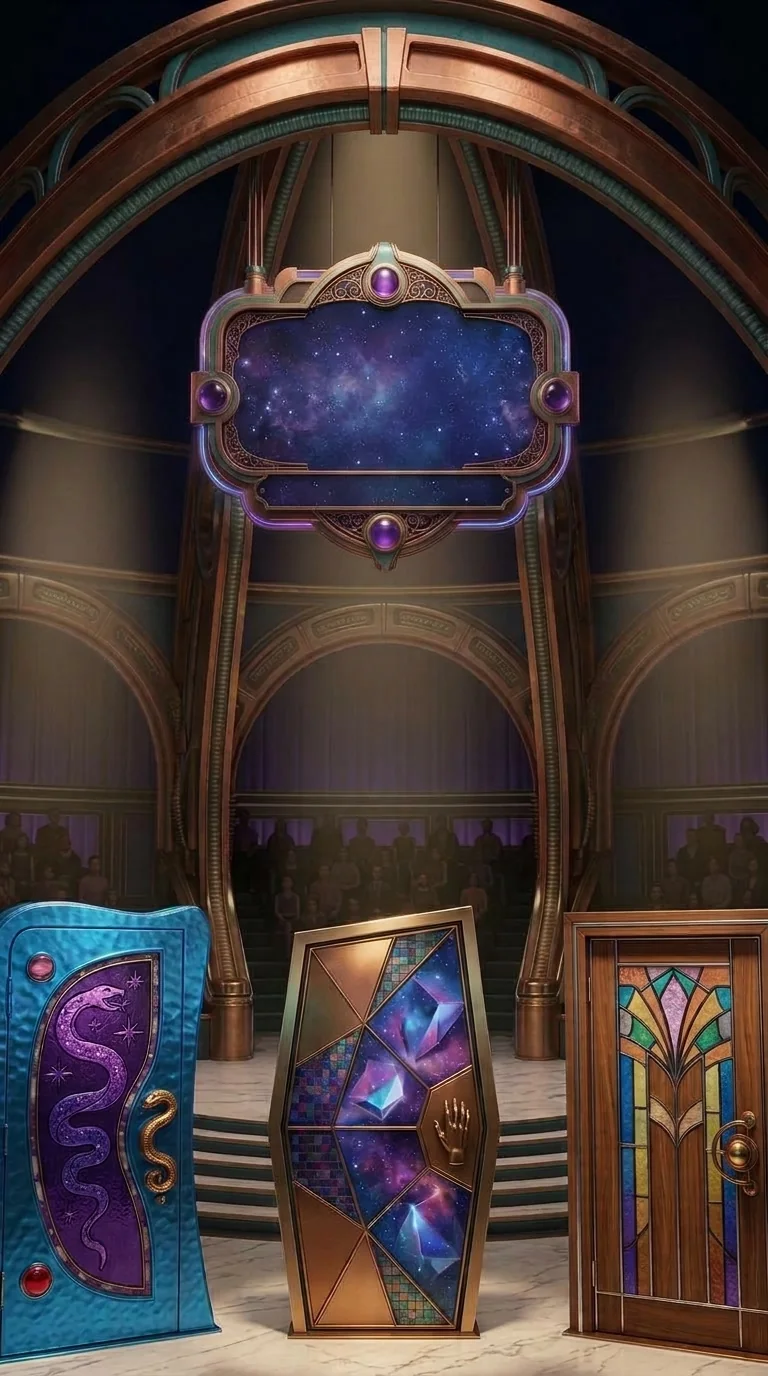
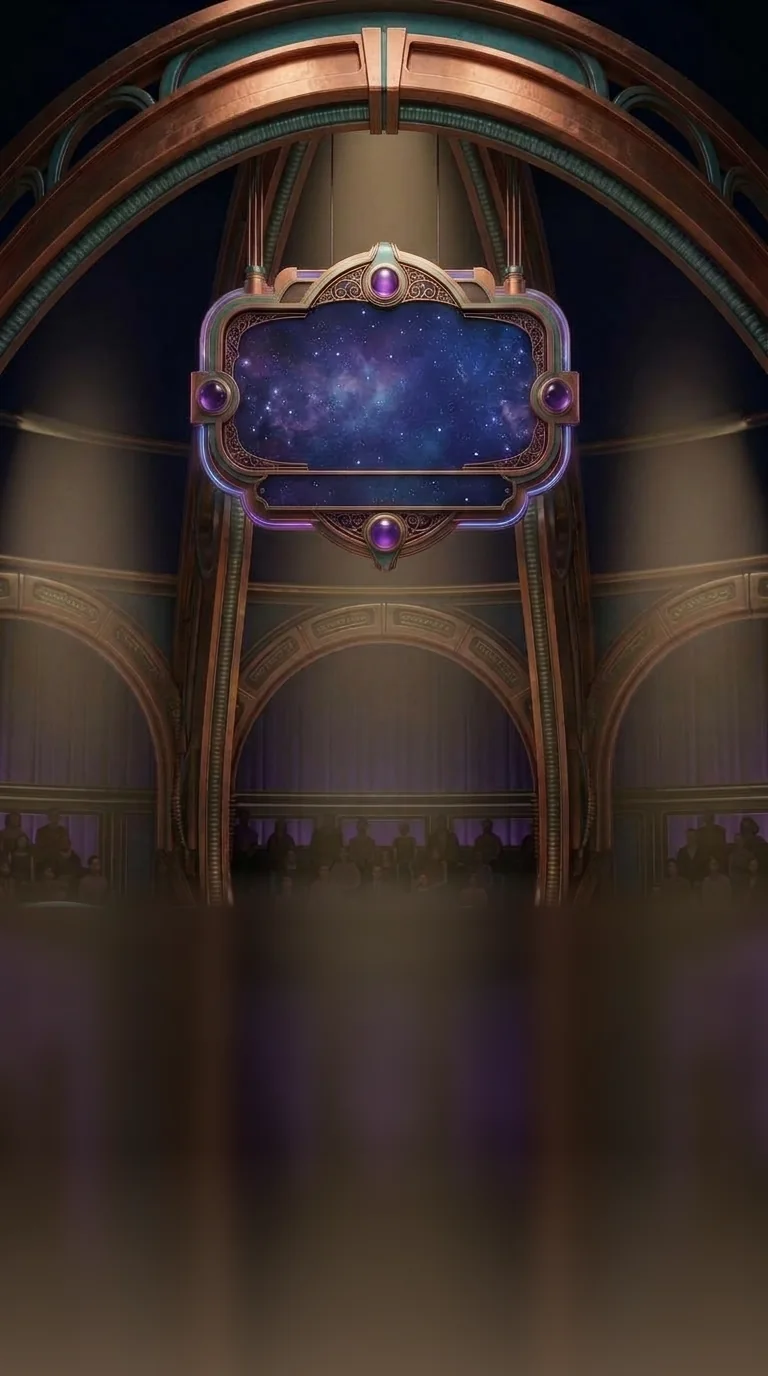
Mystery Doors redo: the stage picture (data/doors/stage.webp, its baked small doors painted out, brightened) behind THREE big live doors side by side at one height - blue, copper (the elongated hexagon, with a thin gold bevel in CSS) and wood - each 115-125 x 197 px at 360-390 wide and a real tap ta

Changed region(s): [[0.0, 0.625, 1.0, 1.0]]

diff --git a/lib/machine.css b/lib/machine.css
@@ -147,57 +147,8 @@
 :root .mc-ww .solve-section-label, :root .mc-ww #solveKeyboard{ display:none !important; }
 :root .mc-ww #solveKeyboard[data-shown]{ display:flex !important; }
 
-/* ===== Mystery Door (doors): the doors are the four pods, each number in its ring, the round buttons tap the doors too ===== */
-:root.mc-on-doors #eventOverlay.mc-backed{ position:fixed !important; inset:0 !important; padding:0 !important; margin:0 !important; animation:none !important; }
-:root.mc-active.mc-on-doors #board{ transform:none !important; animation:none !important; z-index:9 !important; }
-:root .mc-doors > :is(#eventSky, .bb-marquee, .bb-timeline, .riddle-ufo, #coinRays, #eventSubtitle){ display:none !important; }
-:root .mc-doors #eventPrompt{ position:fixed; left:var(--mc-prompt-x); top:var(--mc-prompt-y); width:var(--mc-prompt-w); height:calc(var(--mc-prompt-h) - 8px); margin:0; padding:0 6px; box-sizing:border-box;
-  display:flex; align-items:center; justify-content:center; text-align:center; overflow:hidden; background:none !important; border:0 !important; box-shadow:none !important;
-  font:400 13px/1.15 'FS Righteous', sans-serif !important; color:#f3e9ff !important; text-shadow:0 1px 2px rgba(0,0,0,0.9) !important; }
-:root .mc-doors #eventPrompt::before, :root .mc-doors #eventPrompt::after{ display:none !important; }
-:root .mc-doors #eventTimerBar{ position:fixed; left:calc(var(--mc-prompt-x) + 8px); top:calc(var(--mc-prompt-y) + var(--mc-prompt-h) - 6px); width:calc(var(--mc-prompt-w) - 16px); height:4px; margin:0; border-radius:2px; background:rgba(0,0,0,0.5); }
-:root .mc-doors #eventGrid{ position:static !important; display:block !important; }
-:root .mc-doors #eventGrid .bb-vs{ display:none !important; }
-:root .mc-doors .event-tile{ position:fixed !important; margin:0 !important; padding:0 !important; box-sizing:border-box; display:block !important; border-radius:40px !important; overflow:visible !important;
-  background:none !important; background-color:transparent !important; border:0 !important; box-shadow:none !important; clip-path:none !important; cursor:pointer; transition:opacity 260ms ease, transform 120ms ease-out; }
-:root .mc-doors .event-tile::before, :root .mc-doors .event-tile::after{ display:none !important; }
-:root .mc-doors .event-tile:nth-child(1){ left:var(--mc-pod1-x); top:var(--mc-pod1-y); width:var(--mc-pod1-w); height:var(--mc-pod1-h); }
-:root .mc-doors .event-tile:nth-child(2){ left:var(--mc-pod2-x); top:var(--mc-pod2-y); width:var(--mc-pod2-w); height:var(--mc-pod2-h); }
-:root .mc-doors .event-tile:nth-child(3){ left:var(--mc-pod3-x); top:var(--mc-pod3-y); width:var(--mc-pod3-w); height:var(--mc-pod3-h); }
-:root .mc-doors .event-tile:nth-child(4){ left:var(--mc-pod4-x); top:var(--mc-pod4-y); width:var(--mc-pod4-w); height:var(--mc-pod4-h); }
-:root .mc-doors .event-tile:active{ transform:scale(0.97); }
-/* the door's number in its ring (the ring sits above its pod) */
-:root .mc-doors .event-tile .pu-door{ position:absolute !important; left:calc(var(--mc-ring1-x) - var(--mc-pod1-x)) !important; top:calc(var(--mc-ring1-y) - var(--mc-pod1-y)) !important; width:var(--mc-ring1-w) !important; height:var(--mc-ring1-h) !important;
-  margin:0 !important; transform:none !important; display:flex !important; align-items:center; justify-content:center; background:none !important; border:0 !important; box-shadow:none !important;
-  font:400 clamp(24px, 7.4vw, 32px)/1 'FS Righteous', sans-serif !important; color:#fff !important; text-shadow:0 0 8px rgba(160,240,255,0.9), 0 2px 0 rgba(0,0,0,0.6) !important; }
-:root .mc-doors .event-tile:nth-child(2) .pu-door{ left:calc(var(--mc-ring2-x) - var(--mc-pod2-x)) !important; }
-:root .mc-doors .event-tile:nth-child(3) .pu-door{ left:calc(var(--mc-ring3-x) - var(--mc-pod3-x)) !important; }
-:root .mc-doors .event-tile:nth-child(4) .pu-door{ left:calc(var(--mc-ring4-x) - var(--mc-pod4-x)) !important; }
-/* what's behind the door: a small chip at the foot of its pod (icon and name) */
-:root .mc-doors .event-tile .pu-prize{ position:absolute !important; left:50% !important; bottom:4% !important; top:auto !important; width:118% !important; height:auto !important; margin:0 !important; transform:translateX(-50%) !important;
-  display:flex !important; flex-direction:column; align-items:center; gap:1px; padding:3px 2px !important; border-radius:10px !important; box-shadow:0 2px 6px rgba(0,0,0,0.5) !important; opacity:0.95; }
-:root .mc-doors .event-tile .pu-prize .pu-icon{ font-size:18px !important; line-height:1 !important; margin:0 !important; }
-:root .mc-doors .event-tile .pu-prize .pu-label{ font:400 9.5px/1.05 'FS Righteous', sans-serif !important; color:#fff !important; text-shadow:0 1px 1px rgba(0,0,0,0.8) !important; text-align:center; white-space:normal; }
-/* the pick: a white flare on the chosen pod (it lights up through lightRegion); the others dim */
-:root .mc-doors .event-tile.picked-wait, :root .mc-doors .event-tile.open:not(.other){ animation:mcDoorFlare 700ms ease-out 1 !important; }
-@keyframes mcDoorFlare{ 0%{ background-color:rgba(255,255,255,0); } 25%{ background-color:rgba(255,255,255,0.55); } 100%{ background-color:rgba(255,255,255,0); } }
-:root .mc-doors .event-tile.picked-wait, :root .mc-doors .event-tile.open:not(.other){ background-image:none !important; }
-:root .mc-doors .event-tile.other{ opacity:0.32 !important; }
-:root.lite .mc-doors .event-tile.picked-wait, :root.lite .mc-doors .event-tile.open:not(.other){ animation:none !important; background-color:rgba(255,255,255,0.25) !important; }
-/* the four round buttons: real buttons over the picture's buttons, a squash when pressed */
-.mc-door-btns{ display:none; }
-:root .mc-doors .mc-door-btns{ display:block; }
-:root .mc-doors .mc-door-btn{ position:fixed; width:var(--mc-btn1-w); height:var(--mc-btn1-h); top:var(--mc-btn1-y); margin:0; padding:0; border:0; border-radius:50%; background:transparent; cursor:pointer; transition:transform 110ms ease-out; -webkit-tap-highlight-color:transparent; }
-:root .mc-doors .mc-door-btn.b1{ left:var(--mc-btn1-x); } :root .mc-doors .mc-door-btn.b2{ left:var(--mc-btn2-x); } :root .mc-doors .mc-door-btn.b3{ left:var(--mc-btn3-x); } :root .mc-doors .mc-door-btn.b4{ left:var(--mc-btn4-x); }
-:root .mc-doors .mc-door-btn:active, :root .mc-doors .mc-door-btn.press{ transform:scale(0.86, 0.8); background:radial-gradient(closest-side, rgba(255,255,255,0.45), rgba(255,255,255,0)); }
-:root.mc-active.mc-on-doors .app > header{ position:relative; z-index:9; }
 /* (the stage's own shot steps aside while a machine is up: the machine is the whole screen) */
 :root.mc-active #stage{ display:none !important; }
-:root .mc-doors .event-tile .pu-door::before, :root .mc-doors .event-tile .pu-door::after{ display:none !important; }
-:root .mc-doors .event-tile .pu-prize{ bottom:10% !important; }
-/* the chosen pod: a white flare over it while it opens */
-:root .mc-doors .event-tile.picked-wait, :root .mc-doors .event-tile.open:not(.other){ box-shadow:0 0 0 2px rgba(255,255,255,0.85), 0 0 26px 8px rgba(255,255,255,0.55) !important; }
-@media (max-width:370px){ :root .mc-doors #eventPrompt{ font-size:11.5px !important; } }
 
 /* ===== Lucky Lights (lucky): the game's wheel over the picture's, STOP on the big pink button, BANK / SPIN AGAIN on the strip ===== */
 :root .mc-lucky .ll-inner{ position:static !important; max-width:none !important; }
@@ -329,12 +280,6 @@
 :root .mc-orbit .pk-status{ top:calc(var(--mc-status-y) - 3px); flex-wrap:nowrap; }
 :root .mc-orbit .mc-orbit-patch{ background:linear-gradient(180deg, rgba(40,34,44,0) 0%, rgba(40,34,44,0.92) 30%, rgba(30,26,34,0.92) 70%, rgba(40,34,44,0) 100%); }
 
-/* Mystery Door fixes (Oct 25): the prompt sits on the control strip (a dark plate over the coloured squares), not on the pods; the
-   bonus-game names stay hidden until a door is picked, then only the chosen one shows */
-:root .mc-doors #eventPrompt{ background:rgba(12,6,28,0.82) !important; border-radius:10px !important; box-shadow:0 0 0 1.5px rgba(255,214,90,0.55) !important; font-size:11.5px !important; padding:0 8px !important; }
-:root .mc-doors #eventTimerBar{ top:calc(var(--mc-prompt-y) + var(--mc-prompt-h) - 7px); left:calc(var(--mc-prompt-x) + 10px); width:calc(var(--mc-prompt-w) - 20px); height:3px; }
-:root .mc-doors .event-tile .pu-prize{ opacity:0 !important; transition:opacity 200ms ease; pointer-events:none; }
-:root .mc-doors .event-tile.picked-wait .pu-prize, :root .mc-doors .event-tile.open:not(.other) .pu-prize{ opacity:0.98 !important; }
 
 /* Orbit Drop: headroom for the UFO - the board sits a little lower and shorter so the UFO (which hovers above the board) clears the
    instruction line and the status row, which stay above the star field */
@@ -390,7 +335,68 @@
 :root .mc-zap .zw-found{ left:var(--mc-found-x); top:var(--mc-found-y); width:var(--mc-found-w); height:var(--mc-found-h); }
 :root .mc-zap .mg-rule{ font-size:10px !important; }
 
-/* Item 3 (Oct 25): the Zap Words, Lucky Lights and Mystery Door machines rest in their lit picture (the dim one only for the first 0.35 s);
-   Orbit Drop has no lit picture, so its dim one gets a static brightness lift. Both are still pictures: no animation, no per-frame cost */
 .mc.bright .mc-clean{ filter:brightness(1.45) saturate(1.3) contrast(1.05); }
 .mc.lit .mc-lit{ transition-duration:350ms; }
+
+
+/* ===== Mystery Doors (Oct 25 redo): the stage behind three big live doors; the blank sign carries the live title ===== */
+.mc.bright .mc-clean{ filter:brightness(1.3) saturate(1.2); }
+:root.mc-on-doors #eventOverlay.mc-backed{ position:fixed !important; inset:0 !important; padding:0 !important; margin:0 !important; animation:none !important; }
+:root.mc-active.mc-on-doors #board{ transform:none !important; animation:none !important; z-index:9 !important; }
+:root.mc-active.mc-on-doors .app > header{ position:relative; z-index:9; }
+:root .mc-doors > :is(#eventSky, .bb-marquee, .bb-timeline, .riddle-ufo, #coinRays, #eventSubtitle){ display:none !important; }
+/* the live title on the sign: MYSTERY DOORS, and ROUND n - PICK A DOOR under it */
+.md-title{ display:none; }
+:root .mc-doors .md-title{ display:flex; position:fixed; left:var(--mc-sign-x); top:var(--mc-sign-y); width:var(--mc-sign-w); height:var(--mc-sign-h); flex-direction:column; align-items:center; justify-content:center; gap:5px; text-align:center; pointer-events:none; z-index:2; }
+:root .mc-doors .md-title b{ font:400 clamp(22px, 6.6vw, 28px)/1 'FS Righteous', sans-serif; letter-spacing:0.04em; color:#fff6dc; text-shadow:0 2px 0 rgba(60,20,90,0.9), 0 0 14px rgba(255,214,120,0.65); white-space:nowrap; }
+:root .mc-doors .md-title small{ font:400 clamp(10px, 3vw, 12.5px)/1 'FS Righteous', sans-serif; letter-spacing:0.12em; color:#ffe6a8; text-shadow:0 1px 2px rgba(0,0,30,0.95); white-space:nowrap; }
+/* the doors: three, side by side, one height, as big as the width allows */
+:root .mc-doors #eventGrid{ position:static !important; display:block !important; }
+:root .mc-doors #eventGrid .bb-vs, :root .mc-doors .event-tile:nth-child(n+4){ display:none !important; }
+:root .mc-doors{ --md-h:min(calc((100vw - 28px) / 1.66), calc(var(--mc-row-h) * 0.9)); }
+:root .mc-doors .event-tile{ position:fixed !important; top:calc(var(--mc-row-y) + (var(--mc-row-h) - var(--md-h)) * 0.5); height:var(--md-h); margin:0 !important; padding:0 !important; box-sizing:border-box; display:block !important;
+  background:none !important; background-color:transparent !important; border:0 !important; box-shadow:none !important; clip-path:none !important; border-radius:0 !important; overflow:visible !important; cursor:pointer; perspective:900px; -webkit-tap-highlight-color:transparent;
+  transition:opacity 260ms ease, transform 120ms ease-out; }
+:root .mc-doors .event-tile::before, :root .mc-doors .event-tile::after{ display:none !important; }
+:root .mc-doors .event-tile:nth-child(1){ width:calc(var(--md-h) * 0.577); left:calc(50vw - var(--md-h) * 0.8275 - 4px); }
+:root .mc-doors .event-tile:nth-child(2){ width:calc(var(--md-h) * 0.553); left:calc(50vw - var(--md-h) * 0.2505); }
+:root .mc-doors .event-tile:nth-child(3){ width:calc(var(--md-h) * 0.525); left:calc(50vw + var(--md-h) * 0.3025 + 4px); }
+:root .mc-doors .event-tile:active{ transform:scale(0.97); }
+/* the door picture; its hinge is on the left edge */
+:root .mc-doors .md-img{ position:absolute; inset:0; width:100%; height:100%; display:block; object-fit:contain; transform-origin:0 50%; transition:transform 600ms cubic-bezier(.5,0,.3,1), opacity 300ms ease; pointer-events:none; backface-visibility:hidden; filter:none; }
+:root .mc-doors .event-tile[data-door="copper"]::after{ display:block !important; content:''; position:absolute; inset:-2px; z-index:-1; pointer-events:none; background:linear-gradient(160deg, #fff0b0, #d9a23a 45%, #7a4a10);
+  clip-path:polygon(20% 0, 80% 0, 100% 24%, 88% 100%, 12% 100%, 0 24%); }   /* the thin gold bevel round the hexagon */
+/* behind the door: a CSS space scene - purple, teal and gold glow, stars twinkling in opacity, a slow swirl in transform */
+:root .mc-doors .md-space{ position:absolute; inset:2% 4%; z-index:-1; overflow:hidden; border-radius:10px; opacity:0; transition:opacity 200ms ease;
+  background:radial-gradient(60% 50% at 30% 30%, rgba(150,70,255,0.95), rgba(150,70,255,0) 70%), radial-gradient(55% 45% at 72% 70%, rgba(40,210,200,0.9), rgba(40,210,200,0) 70%), radial-gradient(70% 60% at 50% 55%, rgba(255,200,80,0.7), rgba(255,200,80,0) 65%), #130a30; }
+:root .mc-doors .md-space i{ position:absolute; inset:-30%; background-image:radial-gradient(circle, #fff 0 1.2px, transparent 1.8px), radial-gradient(circle, #ffe9a8 0 1px, transparent 1.6px), radial-gradient(circle, #bfe9ff 0 1.4px, transparent 2px); background-size:34px 41px, 53px 47px, 71px 63px; background-position:0 0, 11px 17px, 23px 5px; animation:mdTwinkle 1.7s ease-in-out infinite alternate; }
+:root .mc-doors .md-space i:nth-child(2){ background-size:47px 39px, 61px 57px, 37px 43px; animation-duration:2.3s; animation-delay:-0.8s; }
+:root .mc-doors .md-space i:nth-child(3){ inset:-40%; opacity:0.5; background:conic-gradient(from 0deg, rgba(255,255,255,0.18), rgba(255,255,255,0) 20%, rgba(255,214,120,0.2) 45%, rgba(255,255,255,0) 65%, rgba(120,255,240,0.18) 85%, rgba(255,255,255,0.18)); animation:mdSwirl 9s linear infinite; }
+@keyframes mdTwinkle{ from{ opacity:0.35; } to{ opacity:1; } }
+@keyframes mdSwirl{ to{ transform:rotate(360deg); } }
+/* the pick: the other two dim; the picked door swings open (rotateY about 0.6 s) on the space; its label shows */
+:root .mc-doors.md-picked .event-tile:not(.picked-wait):not(.open){ opacity:0.3; }
+:root .mc-doors .event-tile.picked-wait .md-img, :root .mc-doors .event-tile.open:not(.other) .md-img{ transform:rotateY(-105deg); }
+:root .mc-doors .event-tile.picked-wait .md-space, :root .mc-doors .event-tile.open:not(.other) .md-space{ opacity:1; }
+:root .mc-doors .event-tile.open.other{ opacity:0.3 !important; }
+/* labels stay hidden until a pick, then only the chosen one shows (under its door) */
+:root .mc-doors .event-tile .pu-prize{ position:absolute !important; left:50% !important; bottom:-46px !important; top:auto !important; width:130% !important; transform:translateX(-50%) !important; display:flex !important; flex-direction:column; align-items:center; gap:1px; padding:4px 2px !important; border-radius:12px !important;
+  box-shadow:0 2px 8px rgba(0,0,0,0.55) !important; opacity:0 !important; transition:opacity 200ms ease; pointer-events:none; z-index:3; }
+:root .mc-doors .event-tile .pu-prize .pu-icon{ font-size:20px !important; line-height:1 !important; margin:0 !important; }
+:root .mc-doors .event-tile .pu-prize .pu-label{ font:400 12px/1.05 'FS Righteous', sans-serif !important; color:#fff !important; text-shadow:0 1px 1px rgba(0,0,0,0.8) !important; text-align:center; }
+:root .mc-doors .event-tile.picked-wait .pu-prize, :root .mc-doors .event-tile.open:not(.other) .pu-prize{ opacity:0.98 !important; }
+:root .mc-doors .event-tile .pu-door{ display:none !important; }
+/* the prompt: larger, on a plate under the doors, with the pick timer under it */
+:root .mc-doors #eventPrompt{ position:fixed; left:var(--mc-prompt-x); top:var(--mc-prompt-y); width:var(--mc-prompt-w); height:calc(var(--mc-prompt-h) - 8px); margin:0; padding:0 12px; box-sizing:border-box; display:flex; align-items:center; justify-content:center; text-align:center;
+  font:400 clamp(15px, 4.4vw, 18px)/1.15 'FS Righteous', sans-serif !important; color:#fff6dc !important; text-shadow:0 2px 0 rgba(30,10,60,0.9) !important; background:rgba(20,10,44,0.82) !important; border-radius:14px !important; border:0 !important; box-shadow:0 0 0 2px rgba(255,214,120,0.6) !important; }
+:root .mc-doors #eventPrompt::before, :root .mc-doors #eventPrompt::after{ display:none !important; }
+:root .mc-doors #eventTimerBar{ position:fixed; left:calc(var(--mc-prompt-x) + 14px); top:calc(var(--mc-prompt-y) + var(--mc-prompt-h) - 4px); width:calc(var(--mc-prompt-w) - 28px); height:4px; margin:0; border-radius:2px; background:rgba(0,0,0,0.5); }
+/* lite and reduced motion: no swing, no twinkle or swirl - the door crossfades away */
+:root.lite .mc-doors .event-tile.picked-wait .md-img, :root.lite .mc-doors .event-tile.open:not(.other) .md-img{ transform:none; opacity:0; transition:opacity 250ms linear; }
+:root.lite .mc-doors .md-space i{ animation:none; }
+@media (prefers-reduced-motion: reduce){ :root .mc-doors .event-tile.picked-wait .md-img, :root .mc-doors .event-tile.open:not(.other) .md-img{ transform:none; opacity:0; transition:opacity 250ms linear; } :root .mc-doors .md-space i{ animation:none; } }
+
+:root .mc-doors .event-tile[data-door="copper"]::after{ transition:opacity 150ms ease; }
+:root .mc-doors .event-tile.picked-wait[data-door="copper"]::after, :root .mc-doors .event-tile.open[data-door="copper"]::after{ opacity:0; }
+:root .mc-doors .event-tile:nth-child(1) .pu-prize{ left:0 !important; transform:none !important; width:118% !important; }
+:root .mc-doors .event-tile:nth-child(3) .pu-prize{ left:auto !important; right:0 !important; transform:none !important; width:118% !important; }

diff --git a/flipstax.html b/flipstax.html
@@ -10960,9 +10960,11 @@
   // the other three open too so the player sees what else was there, and the picked game plays. The old Portal Pick's
   // power-ups are not offered here (their code stays).
   const DOOR_PICK_MS = 8000;
+  const DOOR_SHOWN = 3;   // Oct 25: three doors on the stage (blue, copper, wood); the plan still draws four games, the first three show
+  const DOOR_ART = ['blue', 'copper', 'wood'];
   const DOOR_ICONS = { emojiDecode:'😀', timeWarp:'⌛', snapSort:'📸', saucerShuffle:'🛸', factOrFib:'❓', priceProbe:'🏷' };
   function runMysteryDoor(st, done){
-    const games = (st.doors || []).filter(g=> mysteryAvailable(g)).slice(0, DOOR_COUNT);
+    const games = (st.doors || []).filter(g=> mysteryAvailable(g)).slice(0, DOOR_SHOWN);
     if (!games.length) return false;
     const g = Show.gen, ov = els.eventOverlay;
     runPhase = 'break';
@@ -10971,14 +10973,18 @@
     els.powerupIcon.classList.add('hidden');
     fitTopChip();
     els.eventSubtitle.textContent = '🚪 MYSTERY DOOR';
-    els.eventPrompt.textContent = 'Pick a door — a bonus game waits behind each';
+    els.eventPrompt.textContent = 'Pick a door \u2014 a bonus game waits behind each';
+    // Oct 25: the live title on the stage's blank sign (MYSTERY DOORS, ROUND n \u2022 PICK A DOOR) - real text, set here each time
+    { let t = document.getElementById('mdTitle'); if (!t){ t = document.createElement('div'); t.id = 'mdTitle'; t.className = 'md-title'; t.innerHTML = '<b>MYSTERY DOORS</b><small></small>'; ov.appendChild(t); }
+      t.querySelector('small').textContent = 'ROUND ' + ((RUNDOWN.acts[st.act] || {}).round || 3) + ' \u2022 PICK A DOOR'; }
+    ov.classList.remove('md-picked');
     // Run 4B: the title goes up on the marquee (the close shot of the stage, behind the doors)
     if (window.Stage) Stage.cue('close', { over: ov, cls:'mdoor', sign:{ sub:'ROUND ' + ((RUNDOWN.acts[st.act] || {}).round || 3) + ' OF ' + SHOW_ROUND_COUNT, main:'MYSTERY DOOR' } });
     let picked = false;
-    const reset = ()=>{ ov.classList.add('hidden'); ov.classList.remove('powerup', 'mdoor'); els.eventTiles.forEach(t=>{ t.classList.remove('portal', 'open', 'other', 'picked-wait'); t.innerHTML = ''; t.onclick = null; }); };
+    const reset = ()=>{ ov.classList.add('hidden'); ov.classList.remove('powerup', 'mdoor', 'md-picked'); els.eventTiles.forEach(t=>{ t.classList.remove('portal', 'open', 'other', 'picked-wait'); t.innerHTML = ''; t.onclick = null; }); };
     const open = (i)=>{
       if (picked || g !== Show.gen) return;
-      picked = true; clearTimeout(eventTimeoutId);
+      picked = true; clearTimeout(eventTimeoutId); ov.classList.add('md-picked');   // (the other doors dim, the picked one swings open)
       els.eventTiles.forEach(t=> t.onclick = null);
       const tile = els.eventTiles[i], game = games[i % games.length];
       tile.classList.add('picked-wait'); sfx.drumroll(QUIZ_DRUMROLL_MS);
@@ -10998,7 +11004,8 @@
     };
     els.eventTiles.forEach((tileEl, i)=>{
       const game = games[i % games.length], c = gameIntroColors(game);
-      tileEl.innerHTML = '<span class="pu-door">' + (i + 1) + '</span><span class="pu-prize" style="background:linear-gradient(180deg, ' + c[0] + ', ' + (c[1] || c[0]) + ')"><span class="pu-icon">' + (DOOR_ICONS[game] || '✨') + '</span><span class="pu-label"></span></span>';
+      tileEl.innerHTML = '<span class="md-space" aria-hidden="true"><i></i><i></i><i></i></span><img class="md-img" alt="" draggable="false" src="data/doors/door-' + (DOOR_ART[i] || 'wood') + '.webp"><span class="pu-prize" style="background:linear-gradient(180deg, ' + c[0] + ', ' + (c[1] || c[0]) + ')"><span class="pu-icon">' + (DOOR_ICONS[game] || '\u2728') + '</span><span class="pu-label"></span></span>';
+      tileEl.dataset.door = DOOR_ART[i] || 'wood'; tileEl.setAttribute('aria-label', 'Door ' + (i + 1));
       tileEl.querySelector('.pu-label').textContent = mysteryName(game);
       tileEl.style.backgroundColor = ''; tileEl.dataset.pu = '';
       tileEl.classList.add('portal'); tileEl.classList.remove('open', 'other', 'is-right', 'is-wrong');

diff --git a/lib/machine.js b/lib/machine.js
@@ -17,7 +17,7 @@
 (function(root){
   if (typeof document === 'undefined') return;
   const DIR = 'data/machines/';
-  const games = {}, warm = {};
+  const games = {}, warm = {}, DOOR_FILES = ['blue', 'copper', 'wood'];
   const doc = document.documentElement;
   let el = null, cur = null, curOver = null, raf = 0, mo = null, watched = new Set(), litRegions = {};
   const px = (n)=> (Math.round(n * 100) / 100) + 'px';
@@ -43,7 +43,7 @@
     // zoom: size the picture so one region fills `frac` of the screen's width (the picture's sides crop off), the picture's `anchorY`
     // (a fraction of its height) just under the top HUD
     if (g.zoom){ const q = g.regions[g.zoom.region]; w = Math.max(W, g.zoom.frac * W / q.w); h = w * r; }
-    if (g.below){ const hd = document.querySelector('.app > header'), hb = hd && hd.offsetHeight ? hd.getBoundingClientRect().bottom : 0, room = H - hb - (g.bottomGap || 0); if (h > room){ h = room; w = h / r; } y = hb + Math.max(0, (room - h) / 2); }
+    if (g.below){ const hd = document.querySelector('.app > header'), hb = hd && hd.offsetHeight ? hd.getBoundingClientRect().bottom : 0, room = H - hb - (g.bottomGap || 0); if (h > room){ h = room; w = h / r; } y = hb + (g.alignTop ? 0 : Math.max(0, (room - h) / 2)); }
     if (g.below){ /* (placed above) */ }
     else if (g.shiftY){ const hd = document.querySelector('.app > header'), hb = hd && hd.offsetHeight ? hd.getBoundingClientRect().bottom : 0; y = Math.max(0, Math.min(H - h, hb - h * (g.topFrame || 0.05))); }
     else if (g.zoom){ const hd = document.querySelector('.app > header'), hb = hd && hd.offsetHeight ? hd.getBoundingClientRect().bottom : 0; y = hb + 4 - g.zoom.anchorY * h; }
@@ -64,7 +64,7 @@
       cur = name; litRegions = {};
       el.querySelector('.mc-regions').innerHTML = '';
       el.classList.remove('lit', 'pulse');
-      el.querySelector('.mc-clean').src = DIR + g.img + '-clean.webp';
+      el.querySelector('.mc-clean').src = g.clean || (DIR + g.img + '-clean.webp');
       el.querySelector('.mc-lit').src = g.lit ? DIR + g.img + '-lit.webp' : '';
       el.dataset.game = name;
       doc.classList.add('mc-on-' + name);
@@ -139,7 +139,8 @@
     },
     preload(name){
       const g = games[name]; if (!g || warm[name]) return; warm[name] = true;
-      [g.img + '-clean'].concat(g.lit ? [g.img + '-lit'] : []).forEach(f=>{ const i = new Image(); i.decoding = 'async'; i.src = DIR + f + '.webp'; });
+      [g.img + '-clean'].concat(g.lit ? [g.img + '-lit'] : []).forEach(f=>{ const i = new Image(); i.decoding = 'async'; i.src = (g.clean && /clean$/.test(f)) ? g.clean : DIR + f + '.webp'; });
+      if (name === 'doors') DOOR_FILES.forEach(d=>{ const i = new Image(); i.src = 'data/doors/door-' + d + '.webp'; });
     },
   };
   // A pick on a quiz machine (Brain Beam, the riddle): the chosen panel and its number button light up (looks only - the click

diff --git a/data/machines/machines.js b/data/machines/machines.js
@@ -30,22 +30,13 @@
       submit: { x: 0.618, y: 0.806, w: 0.200, h: 0.046 },
     },
     match: ()=>{ const o = $('solveOverlay'); return o && M.visible(o) && document.documentElement.classList.contains('mode-daily') ? o : null; } });
-  // Mystery Door: four pods (the doors) with a ring above each (the door's number) and a round button below each (taps the door);
-  // the prompt and the pick timer go in the dark recess between the pods and the buttons
-  const POD = (cx)=> ({ x: cx - 0.083, y: 0.462, w: 0.166, h: 0.212 }), RING = (cx)=> ({ x: cx - 0.07, y: 0.303, w: 0.14, h: 0.072 }), BTN = (cx)=> ({ x: cx - 0.07, y: 0.822, w: 0.14, h: 0.068 });
-  const DX = [0.182, 0.390, 0.615, 0.818], RX = [0.175, 0.392, 0.610, 0.825];
-  const DOORS = { prompt: { x: 0.060, y: 0.9205, w: 0.560, h: 0.054 } };
-  DX.forEach((c, k)=>{ DOORS['pod' + (k + 1)] = POD(c); DOORS['ring' + (k + 1)] = RING(RX[k]); DOORS['btn' + (k + 1)] = BTN(RX[k]); });
-  M.register('doors', { bg: ['#010a1b', '#2d214a'], img: 'doors', w: 736, h: 1433, lit: true, below: true, regions: DOORS,
+  // Mystery Doors (Oct 25 redo): the stage picture (data/doors/stage.webp) behind three live doors; the title on its blank sign
+  M.register('doors', { img: 'doors', clean: 'data/doors/stage.webp', w: 768, h: 1376, lit: false, bright: true, below: true, alignTop: true, bg: ['#28201c', '#6a563f'], regions: {
+      sign:  { x: 0.250, y: 0.205, w: 0.500, h: 0.185 },
+      row:   { x: 0.000, y: 0.470, w: 1.000, h: 0.380 },
+      prompt:{ x: 0.080, y: 0.870, w: 0.840, h: 0.075 },
+    },
     match: ()=>{ const o = $('eventOverlay'); return o && M.visible(o) && o.classList.contains('mdoor') && document.documentElement.classList.contains('mode-daily') ? o : null; } });
-  // the four round buttons are real buttons too: each taps its door (only while the doors are up)
-  document.addEventListener('DOMContentLoaded', ()=>{
-    const ov = $('eventOverlay'); if (!ov || $('mcDoorBtns')) return;
-    const box = document.createElement('div'); box.id = 'mcDoorBtns'; box.className = 'mc-door-btns';
-    box.innerHTML = [1, 2, 3, 4].map(n=> '<button type="button" class="mc-door-btn b' + n + '" aria-label="Door ' + n + '"></button>').join('');
-    ov.appendChild(box);
-    box.querySelectorAll('button').forEach((b, k)=> b.addEventListener('click', (e)=>{ e.stopPropagation(); const t = ov.querySelectorAll('.event-tile')[k]; if (t && t.onclick){ b.classList.add('press'); setTimeout(()=> b.classList.remove('press'), 180); t.click(); } }));
-  });
   // Lucky Lights: the game's own wheel covers the picture's (centred on it, under its pointer); the big pink button is STOP;
   // BANK and SPIN AGAIN on the coloured strip buttons; the bank and spin count on a small plaque under the wheel
   M.register('lucky', { bg: ['#020512', '#392a53'], img: 'lucky-console', w: 736, h: 1433, lit: true, top: 22, regions: {

diff --git a/tools/build-doors-art.py b/tools/build-doors-art.py
@@ -66,4 +66,14 @@ a = np.minimum(np.asarray(cu.getchannel('A')), np.asarray(mask)); cu.putalpha(Im
 save(fit(cu), 'door-copper.webp', 100)
 
 # --- the stage
-st = Image.open(os.path.join(SRC, 'doors2-clean.jpg')).convert('RGB'); save(st, 'stage.webp', 150)
+st = Image.open(os.path.join(SRC, 'doors2-clean.jpg')).convert('RGB')
+# the stage picture has three small doors baked into its lower third; the live doors replace them, so smear the band just above them
+# down over that area (blurred, darkened a little) and melt the foot into the floor
+W0, H0 = st.size; y0 = int(H0 * 0.632)
+band = st.crop((0, int(H0 * 0.585), W0, y0)).resize((W0, H0 - y0), Image.BICUBIC).filter(ImageFilter.GaussianBlur(14))
+arr = np.asarray(band).astype('float32'); ramp = np.linspace(1.0, 0.72, arr.shape[0])[:, None, None]; arr = arr * ramp
+floor = np.array([120, 98, 78], dtype='float32'); fade = np.clip((np.linspace(0, 1, arr.shape[0]) - 0.55) / 0.45, 0, 1)[:, None, None]
+arr = arr * (1 - fade * 0.7) + floor * fade * 0.7
+patch = Image.fromarray(arr.clip(0, 255).astype('uint8'))
+blend = Image.linear_gradient('L').resize((W0, 40)); mask = Image.new('L', patch.size, 255); mask.paste(blend, (0, 0))
+st.paste(patch, (0, y0), mask); save(st, 'stage.webp', 150)
